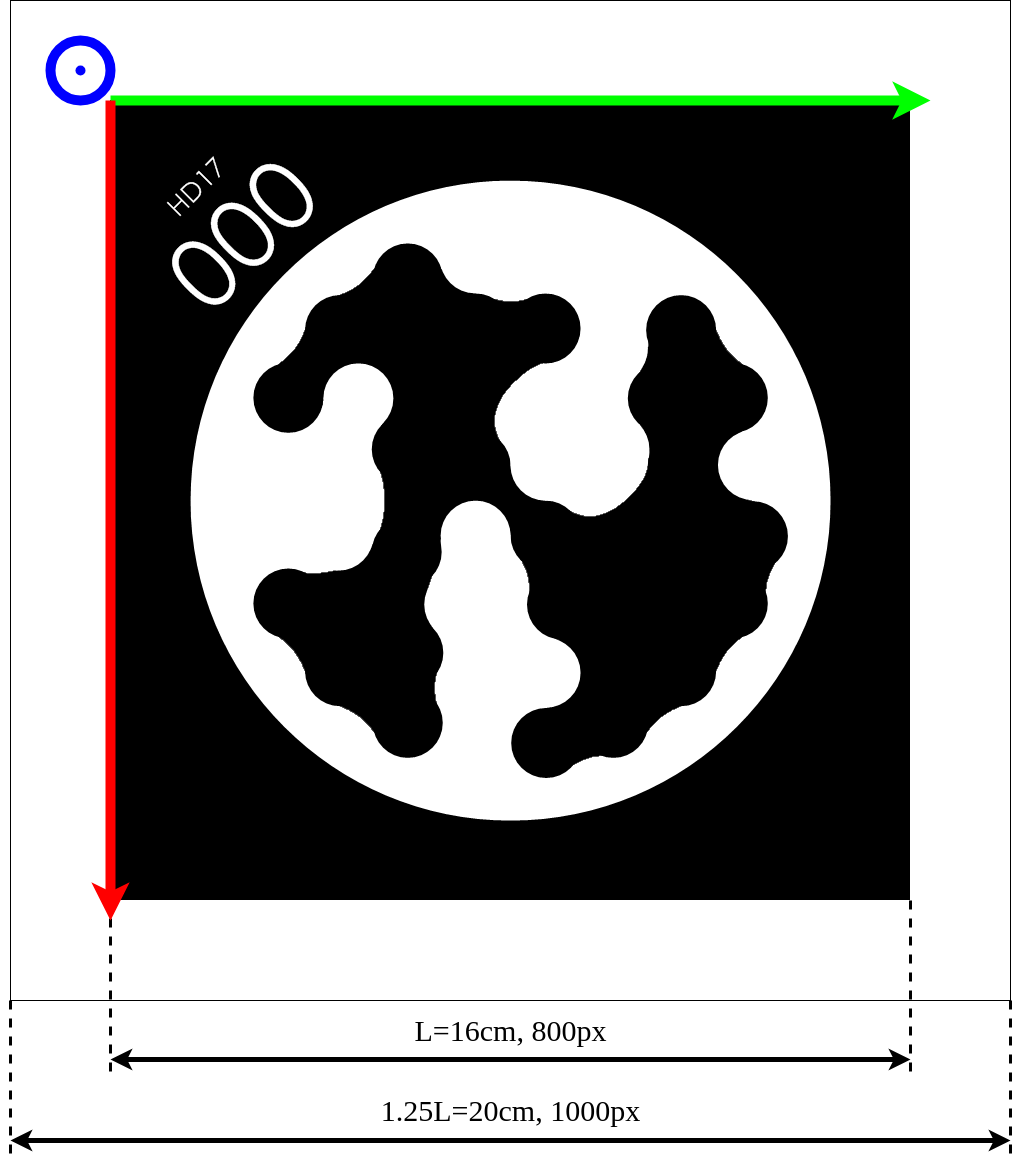
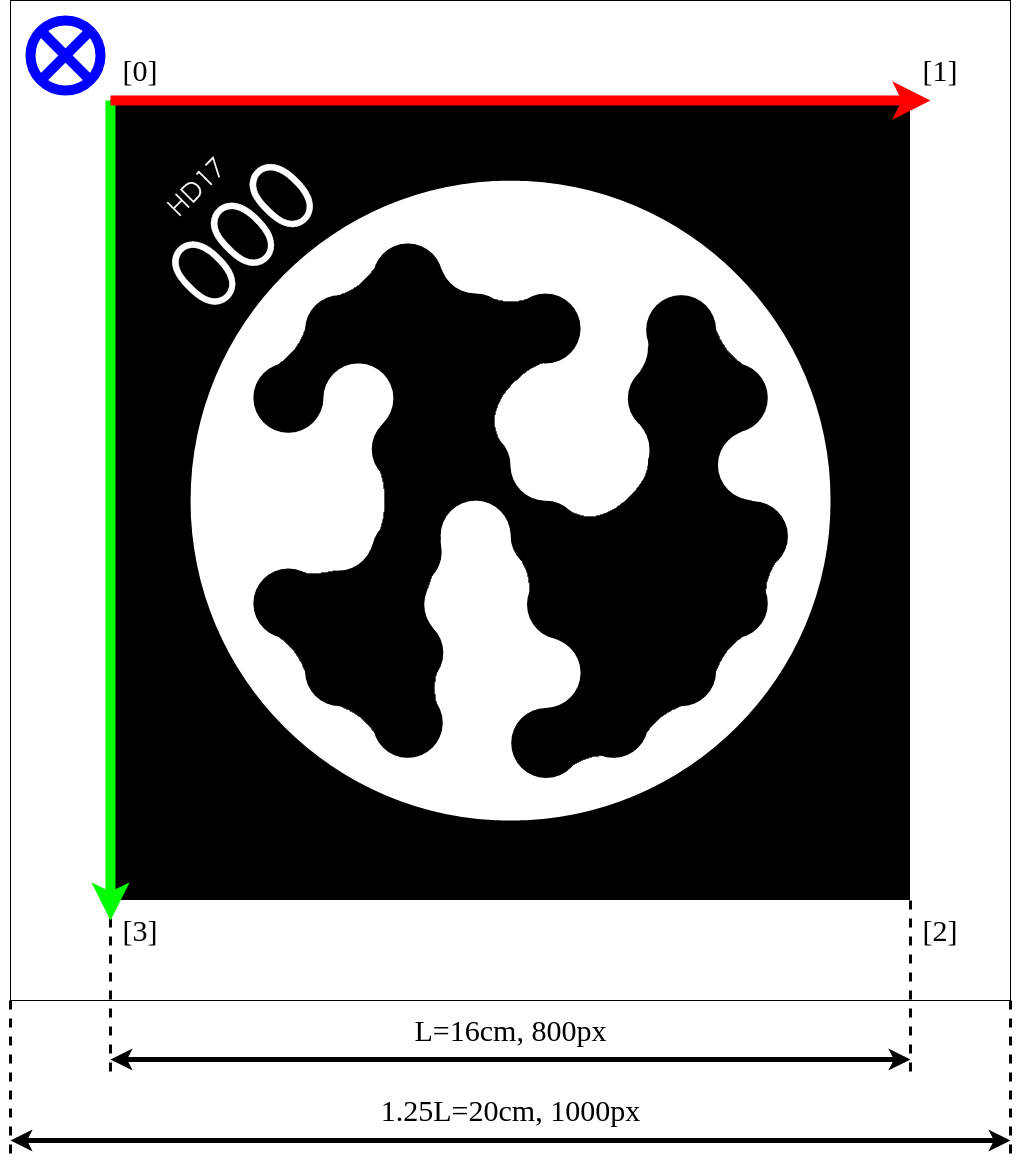
feat: update STag coordinate convention and diagram

Changed region(s): [[0.0, 0.0, 0.91, 0.8048], [0.91, 0.7739, 0.9403, 0.8048]]

diff --git a/main.cpp b/main.cpp
@@ -29,6 +29,8 @@ int main() {
 
   // draw and save results
   stag::drawDetectedMarkers(image, corners, ids);
+  // !debug: draw rejected corners
+  // stag::drawDetectedMarkers(image, rejectedImgPoints);
   cv::imwrite("example_result.jpg", image);
 
   // *这里的相机内参、畸变系数、边长等仅用于验证接口
@@ -47,13 +49,14 @@ int main() {
     if (corners[i].size() != 4) {
       continue;
     }
-    // !STag的坐标系原点定义在左上角，stag::detectMarkers检测出的角点是有序的
-    // !从原点开始，俯视图下逆时针方向，世界坐标系中的角点坐标顺序需要与像素坐标系中的角点坐标顺序一致
+    // !STag的坐标系原点定义在黑色部分有标记的那个角，记为左上角
+    // !stag::detectMarkers检测出的角点是有序的，从原点开始，俯视图下顺时针方向
+    // !世界坐标系中的角点坐标顺序需要与像素坐标系中的角点坐标顺序一致
     std::vector<cv::Point3f> Pw;
     Pw.emplace_back(cv::Point3f{0, 0, 0});
-    Pw.emplace_back(cv::Point3f{0, edge_length, 0});
-    Pw.emplace_back(cv::Point3f{edge_length, edge_length, 0});
     Pw.emplace_back(cv::Point3f{edge_length, 0, 0});
+    Pw.emplace_back(cv::Point3f{edge_length, edge_length, 0});
+    Pw.emplace_back(cv::Point3f{0, edge_length, 0});
     std::vector<cv::Point2f> Puv;
     for (std::size_t j = 0; j < corners[i].size(); ++j) {
       std::cout << "Corner " << j << " at " << corners[i][j] << std::endl;
@@ -62,12 +65,10 @@ int main() {
     // !Pc = Rcw * Pw + tcw
     cv::Mat rvec, tvec;
     cv::solvePnP(Pw, Puv, cameraMatrix, distCoeffs, rvec, tvec);
-    std::cout << "rvec: " << rvec << std::endl;
-    std::cout << "tvec: " << tvec << std::endl;
     // todo：测试这个接口
     // cv::solvePnPRansac(Pw, Puv, cameraMatrix, distCoeffs, rvec, tvec);
-    // std::cout << "rvec: " << rvec << std::endl;
-    // std::cout << "tvec: " << tvec << std::endl;
+    std::cout << "rvec: " << rvec << std::endl;
+    std::cout << "tvec: " << tvec << std::endl;
   }
 
   return 0;

diff --git a/src/EDInterface.cpp b/src/EDInterface.cpp
@@ -18,6 +18,12 @@ void EDInterface::runEDPFandEDLines(const cv::Mat &image)
 		delete edgeMap;
 
 	edLines = DetectLinesByEDPF(edgeMap, image.data, image.size().width, image.size().height, false, 0);
+	// !debug: print elapsed time
+	// std::cout << "edLines->edgeDetectionTime: " << edLines->edgeDetectionTime << std::endl;
+	// std::cout << "edLines->lineFitTime: " << edLines->lineFitTime << std::endl;
+	// std::cout << "edLines->joinLineSegmentsTime: " << edLines->joinLineSegmentsTime << std::endl;
+	// std::cout << "edLines->lineValidationTime: " << edLines->lineValidationTime << std::endl;
+	// std::cout << "edLines->LUTComputationTime: " << edLines->LUTComputationTime << std::endl;
 }
 
 

diff --git a/src/Stag.cpp b/src/Stag.cpp
@@ -164,7 +164,7 @@ namespace {
 			output_rejectedImgPoints->emplace_back(std::move(rejectedImgPoints));
 		}
 
-		// !debug
+		// !debug: draw intermediary steps
 		// *ref: https://github.com/bbenligiray/stag/issues/24
 		// stag_detector.logResults("./");
 	}
